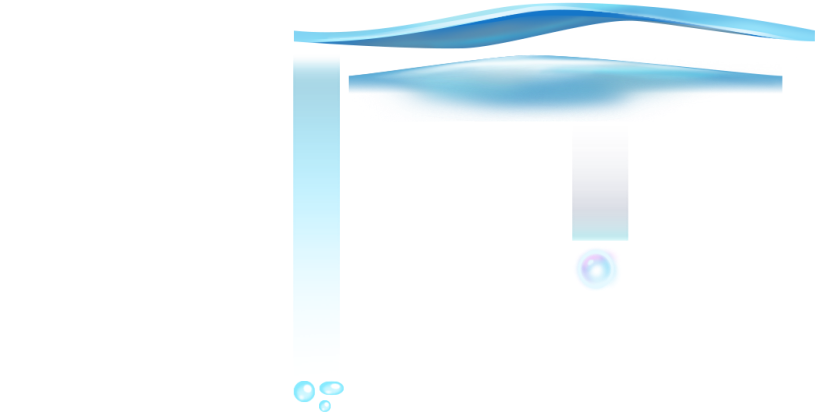
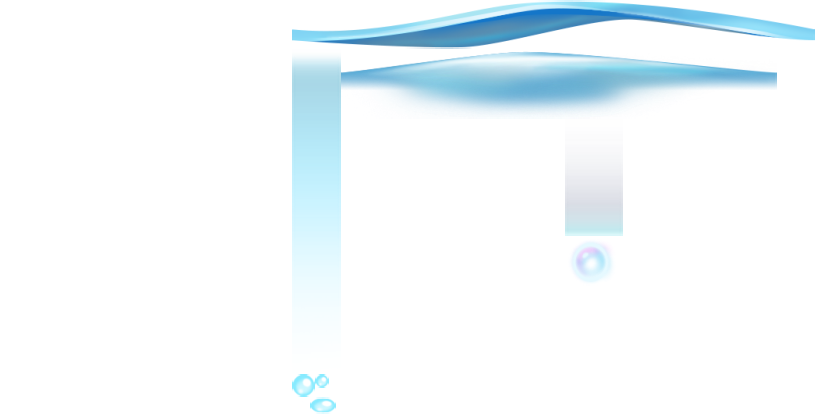
fix water tiling gap

diff --git a/CutTheRope/GameMain/WaterElement.cs b/CutTheRope/GameMain/WaterElement.cs
@@ -57,7 +57,7 @@ namespace CutTheRope.GameMain
             light.anchor = 9;
             light.x = x;
             light.color = RGBAColor.transparentRGBA;
-            light.DoRestoreCutTransparency();
+            // light.DoRestoreCutTransparency();
 
             Timeline pulse = new Timeline().InitWithMaxKeyFramesOnTrack(5);
             pulse.AddKeyFrame(KeyFrame.MakeColor(RGBAColor.transparentRGBA, KeyFrame.TransitionType.FRAME_TRANSITION_IMMEDIATE, 0f));
@@ -189,7 +189,7 @@ namespace CutTheRope.GameMain
             }
 
             Image image = Image_createWithResID(Resources.Img.WaterTile);
-            image.DoRestoreCutTransparency();
+            // image.DoRestoreCutTransparency();
             if (new WaterDrops().InitWithTotalParticlesandImageGrid(10, image) is WaterDrops drops)
             {
                 drops.color = RGBAColor.blackRGBA;
